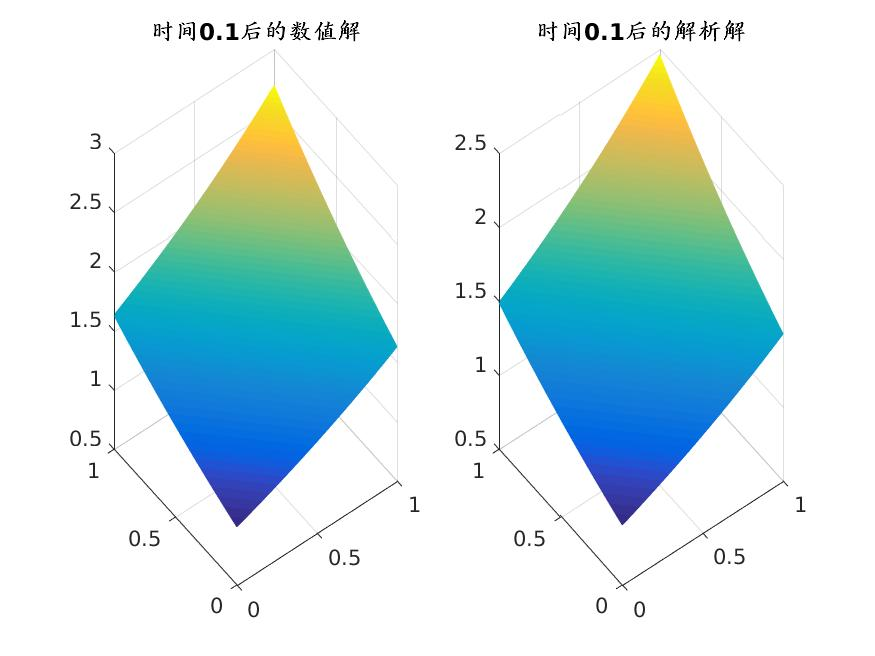
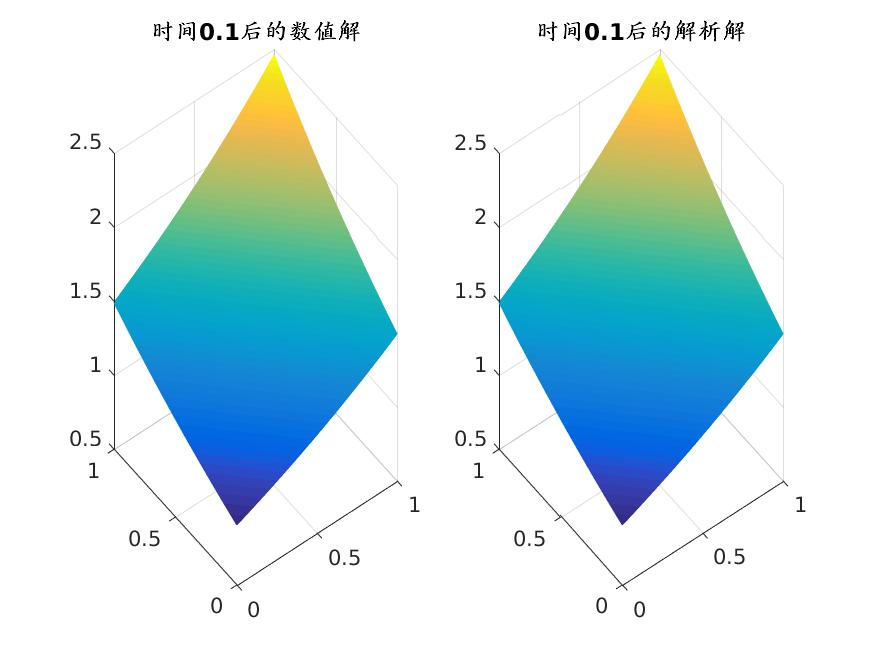
p1元--抛物方程

diff --git a/Heat_equation_全离散隐格式/heat_test.m b/Heat_equation_全离散隐格式/heat_test.m
@@ -33,7 +33,7 @@ saveas(gcf,'最终的计算网格','jpg')
 %%
 gcf = figure(3);
 subplot(1,2,1)
-showsolution(node,elem,u{101})
+showsolution(node,elem,u{1001})
 title('时间0.1后的数值解')
 
 subplot(1,2,2)
